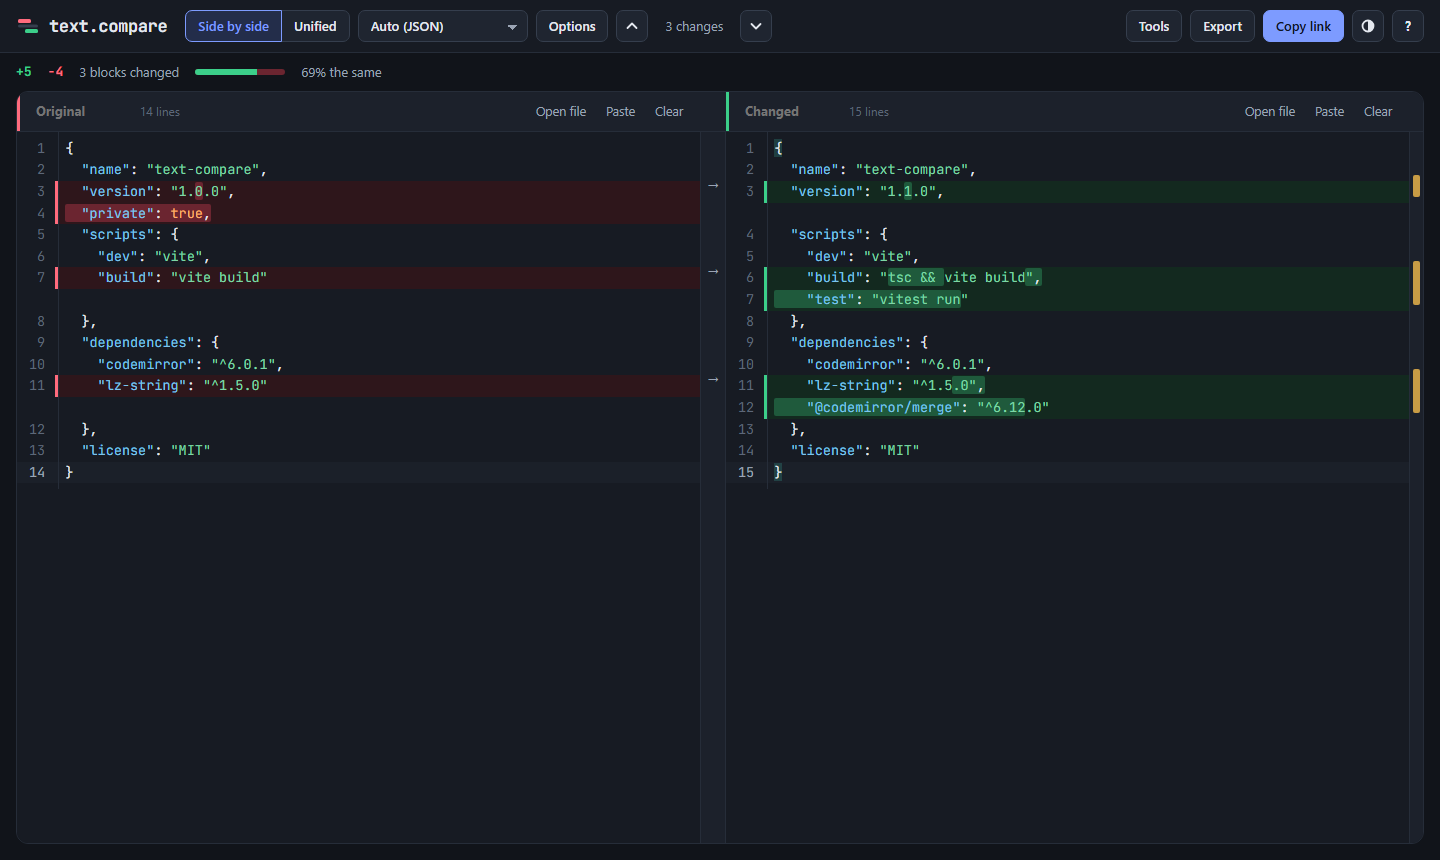
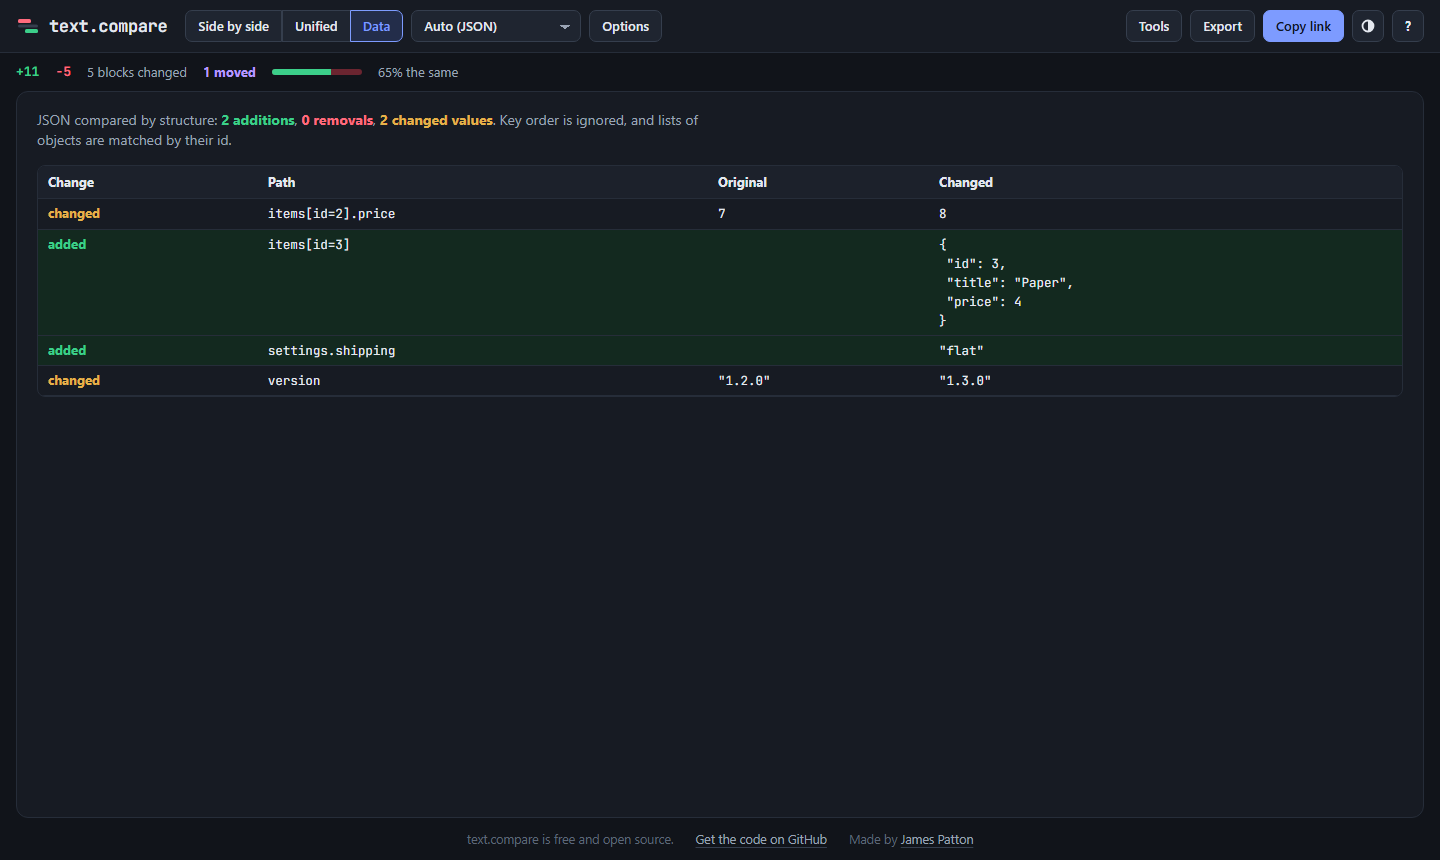
Add browser tests for new features and update README

diff --git a/e2e/features.spec.ts b/e2e/features.spec.ts
@@ -1,0 +1,144 @@
+import { expect, test, type Browser, type Page } from "@playwright/test";
+import { strToU8, zipSync } from "fflate";
+
+async function fill(page: Page, a: string, b: string) {
+  const editors = page.locator(".cm-content");
+  await editors.nth(0).click();
+  await page.keyboard.insertText(a);
+  await editors.nth(1).click();
+  await page.keyboard.insertText(b);
+}
+
+async function makePdf(browser: Browser, text: string): Promise<Buffer> {
+  const p = await browser.newPage();
+  await p.setContent(`<p style="font:16px sans-serif">${text}</p>`);
+  const pdf = await p.pdf({ format: "A6" });
+  await p.close();
+  return pdf;
+}
+
+async function makePng(browser: Browser, color: string): Promise<Buffer> {
+  const p = await browser.newPage({ viewport: { width: 120, height: 80 } });
+  await p.setContent(`<body style="margin:0;background:#fff"><div style="margin:20px;width:40px;height:40px;background:${color}"></div></body>`);
+  const png = await p.screenshot();
+  await p.close();
+  return png;
+}
+
+const docx = (paragraphs: string[]) =>
+  Buffer.from(zipSync({
+    "word/document.xml": strToU8(
+      `<w:document xmlns:w="w"><w:body>${paragraphs.map((t) => `<w:p><w:r><w:t>${t}</w:t></w:r></w:p>`).join("")}</w:body></w:document>`,
+    ),
+  }));
+
+const xlsx = (rows: string[][]) =>
+  Buffer.from(zipSync({
+    "xl/workbook.xml": strToU8('<workbook xmlns:r="r"><sheets><sheet name="S" sheetId="1" r:id="rId1"/></sheets></workbook>'),
+    "xl/_rels/workbook.xml.rels": strToU8('<Relationships><Relationship Id="rId1" Target="worksheets/sheet1.xml"/></Relationships>'),
+    "xl/worksheets/sheet1.xml": strToU8(
+      "<worksheet><sheetData>" +
+        rows.map((r, i) => `<row r="${i + 1}">${r.map((v, j) => `<c r="${"ABC"[j]}${i + 1}" t="inlineStr"><is><t>${v}</t></is></c>`).join("")}</row>`).join("") +
+        "</sheetData></worksheet>",
+    ),
+  }));
+
+test("moved blocks are marked and the tag jumps to the other side", async ({ page }) => {
+  await page.goto("/");
+  const block = "function one() {\n  return 1;\n}";
+  await fill(page, `start\n${block}\nmiddle a\nmiddle b\nmiddle c\nend`, `start\nmiddle a\nmiddle b\nmiddle c\n${block}\nend`);
+  await expect(page.locator("#summary")).toContainText("1 moved");
+  await expect(page.locator(".cm-moveTag").first()).toContainText("Moved to line 5");
+  await expect(page.locator(".cm-movedLine")).toHaveCount(6);
+  await expect(page.locator(".changemap .mark-move").first()).toBeVisible();
+});
+
+test("character mode highlights single characters", async ({ page }) => {
+  await page.goto("/");
+  await fill(page, "the quick fox", "the quack fox");
+  await expect(page.locator(".cm-changedText").first()).toHaveText("quick");
+  await page.click("#options-btn");
+  await page.check("input[name=gran][value=char]");
+  await expect(page.locator(".cm-changedText").first()).toHaveText("i");
+});
+
+test("ignore patterns hide timestamp differences", async ({ page }) => {
+  await page.goto("/");
+  await fill(page, "2026-01-01 10:00:00 job ok", "2026-02-02 11:11:11 job ok");
+  await expect(page.locator("#summary")).not.toContainText("identical");
+  await page.click("#options-btn");
+  await page.getByLabel("Dates and times").check();
+  await expect(page.locator("#summary")).toContainText("identical");
+  await page.locator("#opt-patterns").fill("(broken");
+  await expect(page.locator("#patterns-error")).toContainText("(broken");
+});
+
+test("data view compares JSON by structure", async ({ page }) => {
+  await page.goto("/");
+  await fill(page, '{"b": 1, "a": {"x": true}}', '{"a": {"x": false}, "b": 1, "c": [1]}');
+  await page.click("[data-view=data]");
+  const panel = page.locator("#data-panel");
+  await expect(panel).toContainText("1 addition");
+  await expect(panel).toContainText("1 changed value");
+  await expect(panel.locator("tr.dk-changed .path")).toHaveText("a.x");
+});
+
+test("data view compares CSV rows by key", async ({ page }) => {
+  await page.goto("/");
+  await fill(page, "id,name\n1,Ann\n2,Bob", "id,name\n2,Rob\n1,Ann\n3,Cy");
+  await page.click("[data-view=data]");
+  const panel = page.locator("#data-panel");
+  await expect(panel).toContainText("Rows matched by id");
+  await expect(panel.locator(".cell-changed ins")).toHaveText("Rob");
+  await expect(panel.locator("tr.dk-added")).toHaveCount(1);
+});
+
+test("opens PDF files as text and turns on document mode", async ({ page, browser }) => {
+  await page.goto("/");
+  await page.setInputFiles("#file-a", { name: "a.pdf", mimeType: "application/pdf", buffer: await makePdf(browser, "The first draft of the contract.") });
+  await page.setInputFiles("#file-b", { name: "b.pdf", mimeType: "application/pdf", buffer: await makePdf(browser, "The final draft of the contract.") });
+  await expect(page.locator(".cm-content").nth(0)).toContainText("first draft");
+  await expect(page.locator(".cm-changedText").first()).toHaveText("first");
+  await expect(page.locator("body")).toHaveClass(/prose/);
+});
+
+test("opens Word and Excel files", async ({ page }) => {
+  await page.goto("/");
+  await page.setInputFiles("#file-a", { name: "a.docx", mimeType: "application/octet-stream", buffer: docx(["Hello", "World"]) });
+  await expect(page.locator(".cm-content").nth(0)).toContainText("World");
+  await page.setInputFiles("#file-b", { name: "b.xlsx", mimeType: "application/octet-stream", buffer: xlsx([["id", "v"], ["1", "x"]]) });
+  await expect(page.locator(".cm-content").nth(1)).toContainText("id,v");
+  await expect(page.locator("#meta-b")).toContainText("Excel as CSV");
+});
+
+test("compares images with a pixel difference view", async ({ page, browser }) => {
+  await page.goto("/");
+  await page.setInputFiles("#file-a", { name: "a.png", mimeType: "image/png", buffer: await makePng(browser, "#d00") });
+  await page.setInputFiles("#file-b", { name: "b.png", mimeType: "image/png", buffer: await makePng(browser, "#00d") });
+  await expect(page.locator("#image-panel")).toBeVisible();
+  await expect(page.locator(".img-figure img")).toHaveCount(2);
+  await page.click("[data-img-mode=diff]");
+  await expect(page.locator("#img-info")).toContainText("of pixels differ");
+  await page.click("[data-img-mode=slider]");
+  await expect(page.locator(".slider-handle")).toBeVisible();
+  await page.click("#img-close");
+  await expect(page.locator("#editor-row")).toBeVisible();
+});
+
+test("exports a report", async ({ page }) => {
+  await page.goto("/");
+  await fill(page, "one\ntwo", "one\n2");
+  await page.click("#export-btn");
+  const download = page.waitForEvent("download");
+  await page.click("[data-action=report]");
+  const file = await download;
+  expect(file.suggestedFilename()).toMatch(/comparison\.html$/);
+  const html = await (await file.createReadStream()).toArray().then((c) => Buffer.concat(c).toString());
+  expect(html).toContain("<del>two</del>");
+});
+
+test("footer links to the code and the author", async ({ page }) => {
+  await page.goto("/");
+  await expect(page.locator(".site-footer a", { hasText: "GitHub" })).toHaveAttribute("href", "https://github.com/jamesclaypatton/text-compare");
+  await expect(page.locator(".site-footer a", { hasText: "James Patton" })).toHaveAttribute("href", "https://jamesclaypatton.com");
+});

diff --git a/README.md b/README.md
@@ -7,17 +7,29 @@ Everything runs in your browser, so the text you paste is never uploaded anywher
 
 ## Features
 
-- **Side by side or unified** views, with word- and character-level highlighting inside changed lines
-- **Editable on both sides**, with undo, find and replace, and arrows that copy a block from one side to the other
-- **Syntax highlighting** for 100+ languages, detected from the file name or the text itself
-- **Options** to ignore case, whitespace at line ends, all whitespace, or blank lines
-- **Jump between changes** with <kbd>F7</kbd> / <kbd>Shift</kbd>+<kbd>F7</kbd> (or <kbd>Alt</kbd>+<kbd>↑</kbd>/<kbd>↓</kbd>), plus a change map beside the editor you can click
-- **Hide unchanged lines** to focus on what's different
-- **Open or drop files** (drop two at once to compare them), with UTF-8, UTF-16 and Windows-1252 detection
-- **Export** as a standard `.patch` file, copy the diff, download either side, or print
-- **Share links** that carry the text inside the link itself, with nothing stored on a server
-- **Tools** to format JSON with sorted keys, sort lines, strip whitespace at line ends, and swap sides
-- **Light and dark themes**, a phone-friendly layout, and offline support once installed as an app
+**Seeing what changed**
+- Side by side or unified views, with changes highlighted by whole word or by single character
+- **Moved blocks** are shown in violet, with a tag that jumps to where the block went, instead of showing as a deletion and a separate addition
+- Syntax highlighting for 100+ languages, detected from the file name or the text itself
+- **Document mode** for prose: wrapped paragraphs in a readable serif, changes shown by word
+- A change map beside the editor, <kbd>F7</kbd> / <kbd>Shift</kbd>+<kbd>F7</kbd> to jump between changes, and an option to hide unchanged lines
+
+**Deciding what counts as a change**
+- Ignore case, whitespace at line ends, all whitespace, or blank lines
+- Ignore text matching patterns: dates and times, GUIDs, hex values, numbers, or your own regular expressions (handy for log files)
+
+**Data, documents and images**
+- **Data view** compares JSON by structure (key order ignored, lists of objects matched by id) and CSV/TSV tables by row and column (rows matched by a key column)
+- Open **Word (.docx), Excel (.xlsx) and PDF** files. Their text is extracted in your browser
+- **Image compare**: side by side, a slider, an overlay with adjustable opacity, and a pixel-difference view with the share of pixels that changed
+
+**Editing and sharing**
+- Both sides are editable, with undo, find and replace, and arrows that copy a block across
+- Export a **report** (a self-contained HTML redline) or print it as a PDF, download a standard `.patch`, or copy the diff
+- Share links that carry the text inside the link itself, with nothing stored on a server
+- Tools to format JSON with sorted keys, sort lines, strip spaces at line ends, and swap sides
+- Light and dark themes, a phone layout, and offline support once installed as an app
+- Large texts are analysed in a background thread so the page stays responsive
 
 ## Privacy
 
@@ -73,6 +85,10 @@ npm run test:e2e     # browser tests (Playwright; run `npx playwright install ch
 | Path | What it does |
 | --- | --- |
 | `src/diff-core.ts`, `src/seq-diff.ts` | Line diff (Myers), stats and `.patch` output |
+| `src/worddiff.ts`, `src/moves.ts` | Word/character highlighting and moved-block detection |
+| `src/structure.ts` | JSON and CSV/TSV structural comparison |
+| `src/office.ts`, `src/pdf.ts`, `src/documents.ts` | Reading Word, Excel, PDF and image files |
+| `src/report.ts` | The HTML report |
 | `src/normalize.ts` | Comparison options (case, whitespace, blank lines) |
 | `src/merge-override.ts` | Applies those options to the editor's diff |
 | `src/editor.ts` | The CodeMirror side-by-side and unified views |
@@ -80,7 +96,7 @@ npm run test:e2e     # browser tests (Playwright; run `npx playwright install ch
 | `src/lang.ts` | Language detection |
 | `src/main.ts` | Page wiring: toolbar, files, export, theme |
 
-Built with [CodeMirror 6](https://codemirror.net) and [lz-string](https://github.com/pieroxy/lz-string).
+Built with [CodeMirror 6](https://codemirror.net), [PDF.js](https://mozilla.github.io/pdf.js/), [fflate](https://github.com/101arrowz/fflate) and [lz-string](https://github.com/pieroxy/lz-string).
 
 ## License
 
